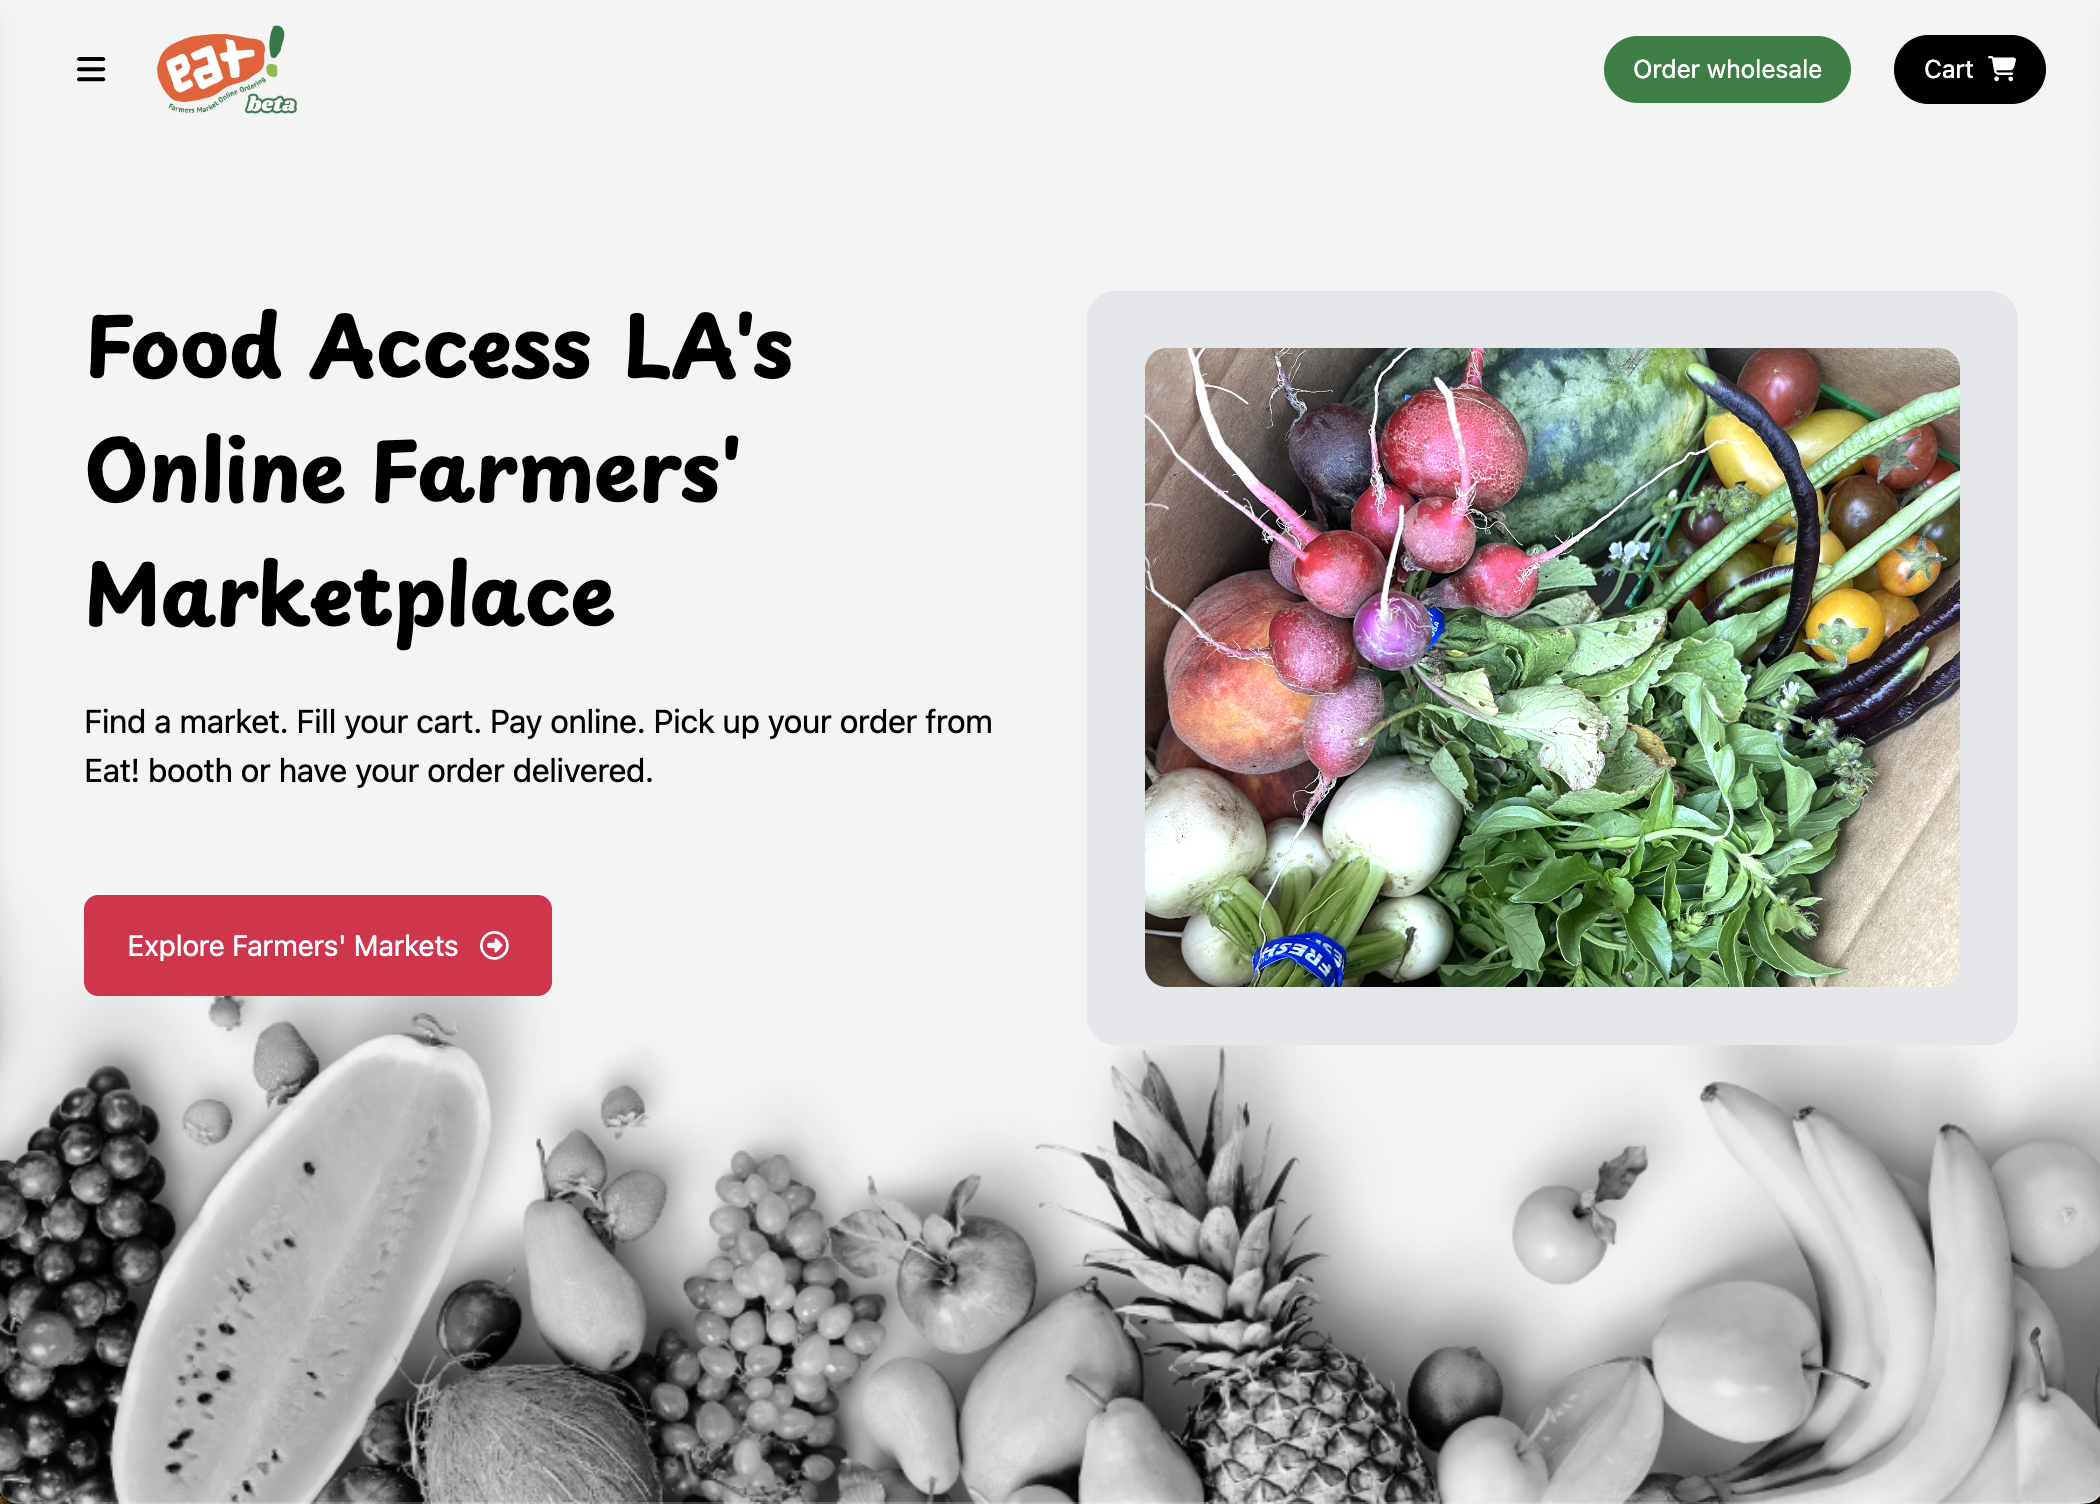
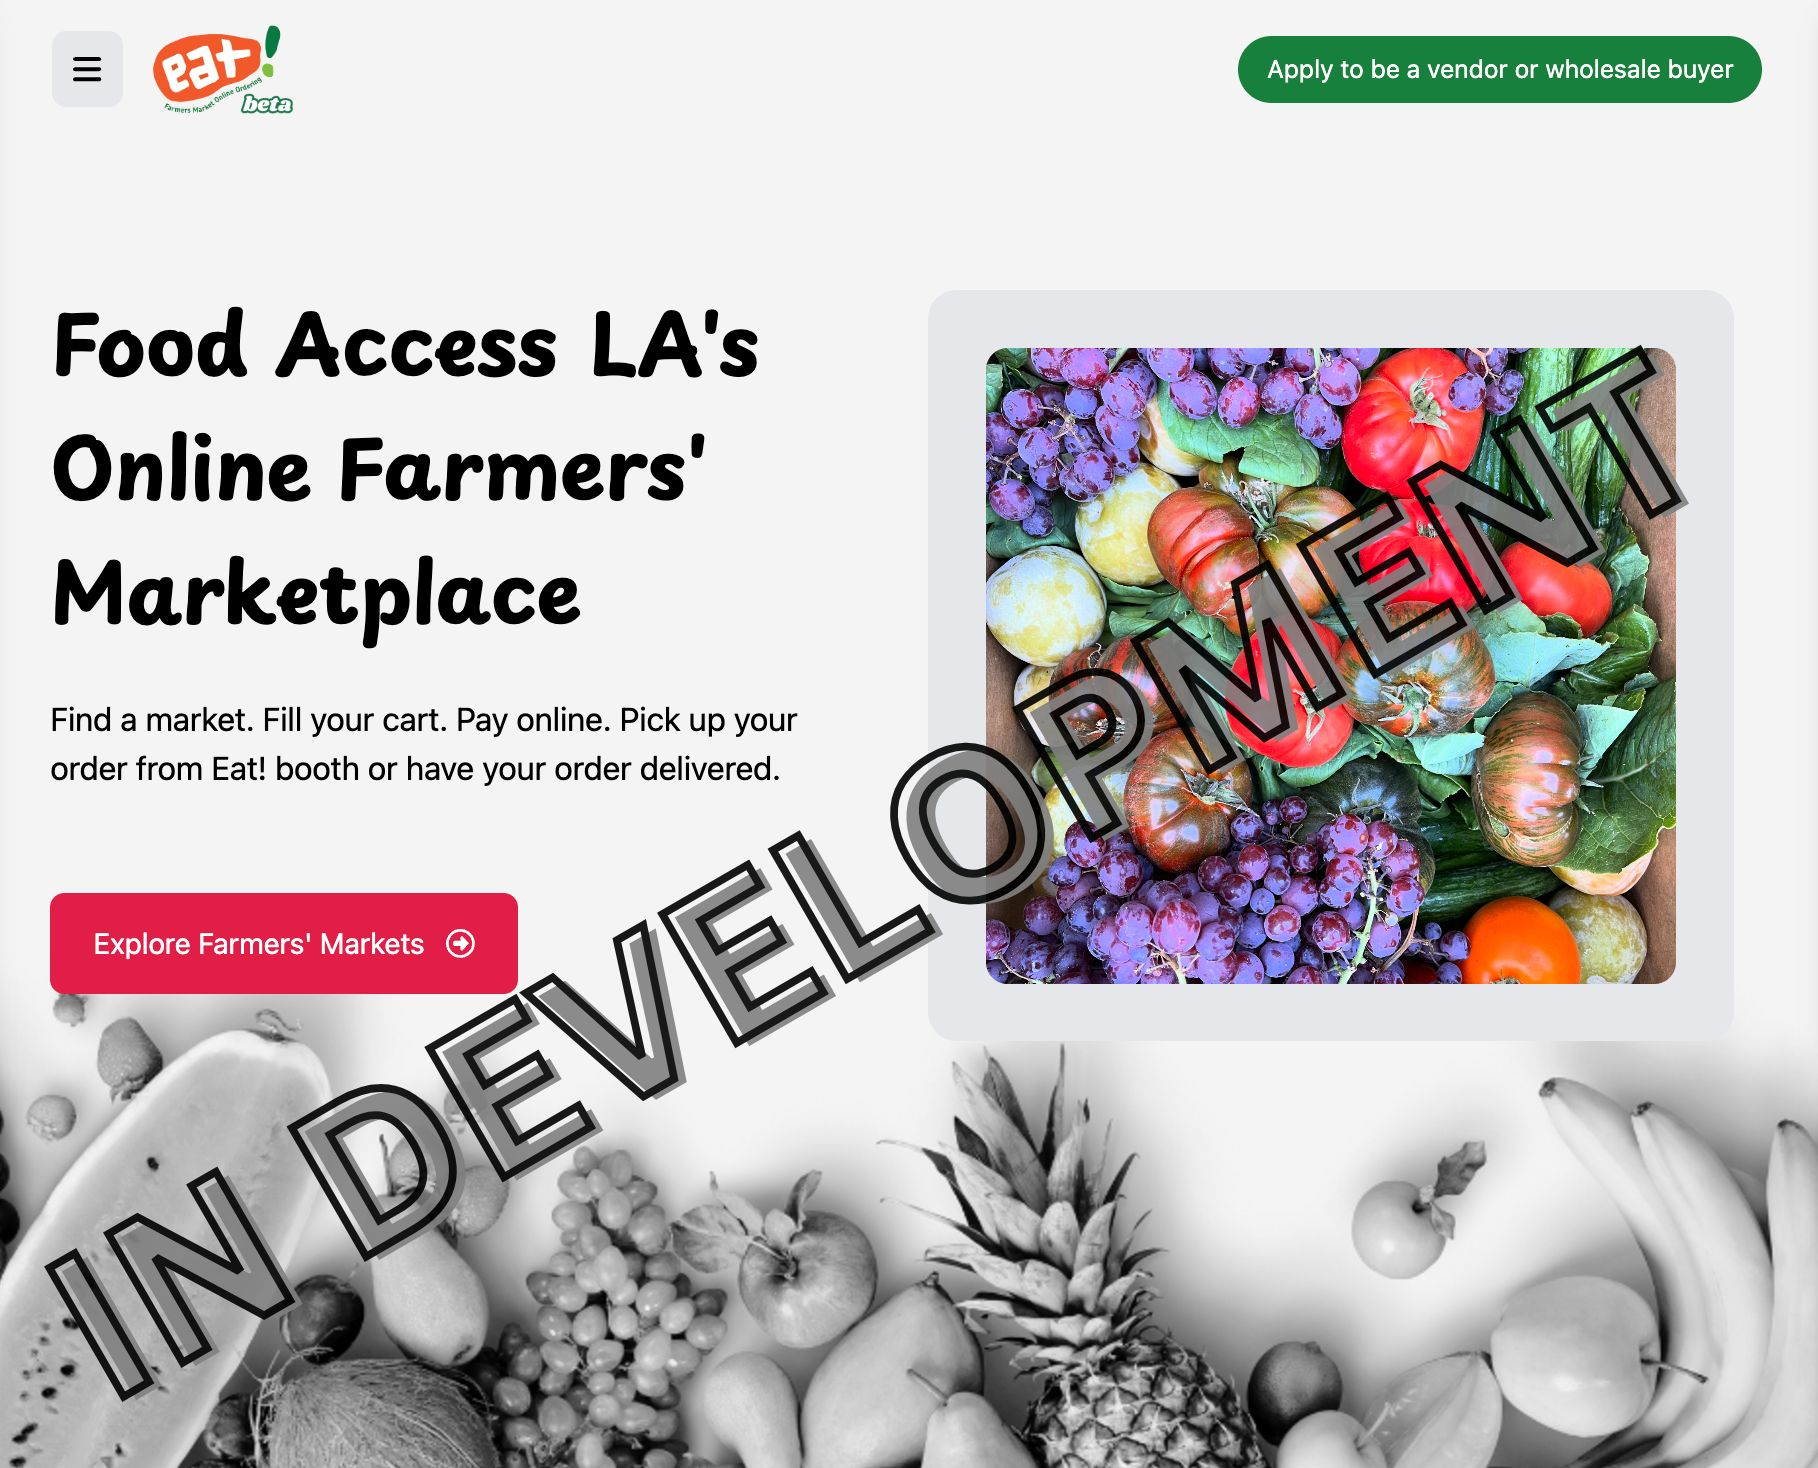
edited about seciton, updated projects to include order on eat

diff --git a/src/components/portfolio/PortfolioTwo.jsx b/src/components/portfolio/PortfolioTwo.jsx
@@ -2,17 +2,11 @@ import React from "react";
 import { Tab, Tabs, TabList, TabPanel } from "react-tabs";
 import { Gallery, Item } from "react-photoswipe-gallery";
 
-const tabList = ["All", "React", "Python/Flask", "Typescript/Node"]
+const tabList = ["All", "Typescript/Node", "Python/Flask", "React"]
 
 const tabListContent = [
   {
     porftoliItems: [
-      {
-        img: "/img/portfolio/moodify.jpg",
-        title: "Visit Site",
-        meta: "Music",
-        portfolioLink: "https://moodify-s91r.onrender.com/",
-      },
       {
         img: "/img/portfolio/whipitup.jpg",
         title: "Visit Site",
@@ -23,10 +17,16 @@ const tabListContent = [
       {
         img: "/img/portfolio/orderOnEat.jpg",
         title: "Visit Site",
-        meta: "online ordering for farmers markets",
+        meta: "ECommerce - Food",
         portfolioLink:
           "https://orderoneat.org/",
-      }
+      },
+      {
+        img: "/img/portfolio/moodify.jpg",
+        title: "Visit Site",
+        meta: "Music",
+        portfolioLink: "https://moodify-s91r.onrender.com/",
+      },
     ],
   },
   {
@@ -86,7 +86,7 @@ const Portfolio = () => {
               <div className="title_flex">
                 <div className="left">
                   <span>Portfolio</span>
-                  <h3>Project Portfolio</h3>
+                  <h3>Projects</h3>
                 </div>
               </div>
             </div>
@@ -119,7 +119,7 @@ const Portfolio = () => {
                                     original={val.img}
                                     thumbnail={val.img}
                                     width={1000}
-                                    height={1000}
+                                    height={800}
                                   >
                                     {({ ref, open }) => (
                                       <img

diff --git a/src/assets/scss/main/_style.scss b/src/assets/scss/main/_style.scss
@@ -2989,6 +2989,7 @@ body.dark .shane_tm_settings .cursor li .svg,
   .shane_tm_portfolio .portfolio_list ul li {
     padding: 0px;
     width: 100%;
+    height: 100%;
     margin-bottom: 20px;
   }
   .shane_tm_news .news_list ul {
@@ -3049,6 +3050,7 @@ body.intro .loader_line:after {
   box-shadow: 0px 0px 30px rgba(0, 0, 0, 0.15);
   img {
     width: 16px;
+    height: 20px
   }
   &:hover {
     transform: translateY(-5px);
